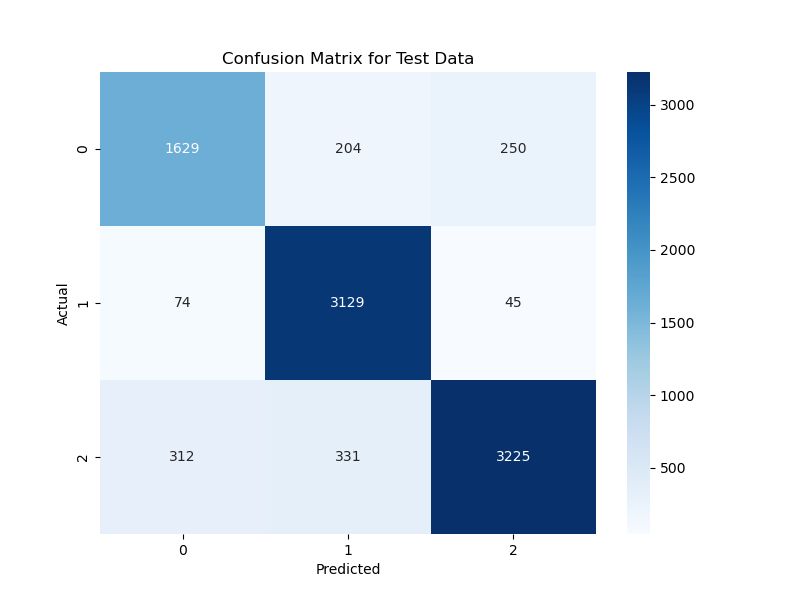
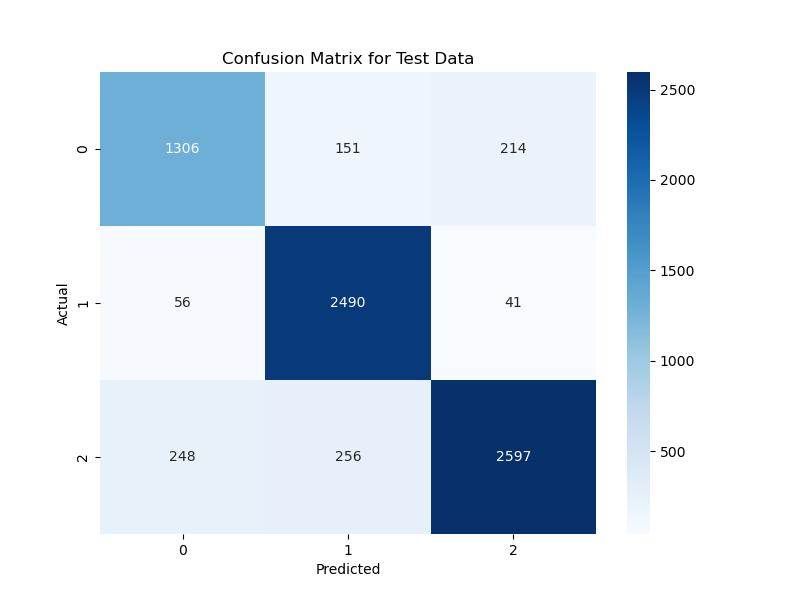
model registry

diff --git a/src/model/model_evaluation.py b/src/model/model_evaluation.py
@@ -3,12 +3,15 @@ import pandas as pd
 import pickle
 import logging
 import yaml
+import mlflow
+import mlflow.sklearn
 from sklearn.metrics import classification_report, confusion_matrix
 from sklearn.feature_extraction.text import TfidfVectorizer
 import os
 import matplotlib.pyplot as plt
 import seaborn as sns
 import json
+from mlflow.models import infer_signature
 
 # logging configuration
 logger = logging.getLogger('model_evaluation')
@@ -100,11 +103,11 @@ def log_confusion_matrix(cm, dataset_name):
     plt.xlabel('Predicted')
     plt.ylabel('Actual')
 
-    # Save confusion matrix plot as a file
+    # Save confusion matrix plot as a file and log it to MLflow
     cm_file_path = f'confusion_matrix_{dataset_name}.png'
     plt.savefig(cm_file_path)
+    mlflow.log_artifact(cm_file_path)
     plt.close()
-
 
 def save_model_info(run_id: str, model_path: str, file_path: str) -> None:
     """Save the model run ID and path to a JSON file."""
@@ -124,36 +127,75 @@ def save_model_info(run_id: str, model_path: str, file_path: str) -> None:
 
 
 def main():
-    try:
-        # Load parameters from YAML file
-        root_dir = os.path.abspath(os.path.join(os.path.dirname(__file__), '../../'))
-        params = load_params(os.path.join(root_dir, 'params.yaml'))
+    mlflow.set_tracking_uri("http://ec2-16-171-155-19.eu-north-1.compute.amazonaws.com:5000/")
 
-        # Load model and vectorizer
-        model = load_model(os.path.join(root_dir, 'lgbm_model.pkl'))
-        vectorizer = load_vectorizer(os.path.join(root_dir, 'tfidf_vectorizer.pkl'))
+    mlflow.set_experiment('dvc-pl')
+    
+    with mlflow.start_run() as run:
+        try:
+            # Load parameters from YAML file
+            root_dir = os.path.abspath(os.path.join(os.path.dirname(__file__), '../../'))
+            params = load_params(os.path.join(root_dir, 'params.yaml'))
 
-        # Load test data
-        test_data = load_data(os.path.join(root_dir, 'data/interim/test_processed.csv'))
+            # Log parameters
+            for key, value in params.items():
+                mlflow.log_param(key, value)
+            
+            # Load model and vectorizer
+            model = load_model(os.path.join(root_dir, 'lgbm_model.pkl'))
+            vectorizer = load_vectorizer(os.path.join(root_dir, 'tfidf_vectorizer.pkl'))
 
-        # Prepare test data
-        X_test_tfidf = vectorizer.transform(test_data['clean_comment'].values)
-        y_test = test_data['category'].values
+            # Load test data for signature inference
+            test_data = load_data(os.path.join(root_dir, 'data/interim/test_processed.csv'))
 
-        # Evaluate model and get metrics
-        report, cm = evaluate_model(model, X_test_tfidf, y_test)
+            # Prepare test data
+            X_test_tfidf = vectorizer.transform(test_data['clean_comment'].values)
+            y_test = test_data['category'].values
 
-        # Log confusion matrix
-        log_confusion_matrix(cm, "Test Data")
+            # Create a DataFrame for signature inference (using first few rows as an example)
+            input_example = pd.DataFrame(X_test_tfidf.toarray()[:5], columns=vectorizer.get_feature_names_out())  # <--- Added for signature
 
-        # Print classification report
-        print("Classification Report:")
-        print(json.dumps(report, indent=4))  # Pretty print the classification report
+            # Infer the signature
+            signature = infer_signature(input_example, model.predict(X_test_tfidf[:5]))  # <--- Added for signature
 
-    except Exception as e:
-        logger.error(f"Failed to complete model evaluation: {e}")
-        print(f"Error: {e}")
+            # Log model with signature
+            mlflow.sklearn.log_model(
+                model,
+                "lgbm_model",
+                signature=signature,  # <--- Added for signature
+                input_example=input_example  # <--- Added input example
+            )
 
+            # Save model info
+            model_path = "lgbm_model"
+            save_model_info(run.info.run_id, model_path, 'experiment_info.json')
+
+            # Log the vectorizer as an artifact
+            mlflow.log_artifact(os.path.join(root_dir, 'tfidf_vectorizer.pkl'))
+
+            # Evaluate model and get metrics
+            report, cm = evaluate_model(model, X_test_tfidf, y_test)
+
+            # Log classification report metrics for the test data
+            for label, metrics in report.items():
+                if isinstance(metrics, dict):
+                    mlflow.log_metrics({
+                        f"test_{label}_precision": metrics['precision'],
+                        f"test_{label}_recall": metrics['recall'],
+                        f"test_{label}_f1-score": metrics['f1-score']
+                    })
+
+            # Log confusion matrix
+            log_confusion_matrix(cm, "Test Data")
+
+            # Add important tags
+            mlflow.set_tag("model_type", "LightGBM")
+            mlflow.set_tag("task", "Sentiment Analysis")
+            mlflow.set_tag("dataset", "YouTube Comments")
+
+        except Exception as e:
+            logger.error(f"Failed to complete model evaluation: {e}")
+            print(f"Error: {e}")
 
 if __name__ == '__main__':
     main()

diff --git a/src/model/register_model.py b/src/model/register_model.py
@@ -1,0 +1,76 @@
+# register model
+
+import json
+import mlflow
+import logging
+import os
+
+# Set up MLflow tracking URI
+mlflow.set_tracking_uri("http://ec2-16-171-155-19.eu-north-1.compute.amazonaws.com:5000/")
+
+
+# logging configuration
+logger = logging.getLogger('model_registration')
+logger.setLevel('DEBUG')
+
+console_handler = logging.StreamHandler()
+console_handler.setLevel('DEBUG')
+
+file_handler = logging.FileHandler('model_registration_errors.log')
+file_handler.setLevel('ERROR')
+
+formatter = logging.Formatter('%(asctime)s - %(name)s - %(levelname)s - %(message)s')
+console_handler.setFormatter(formatter)
+file_handler.setFormatter(formatter)
+
+logger.addHandler(console_handler)
+logger.addHandler(file_handler)
+
+def load_model_info(file_path: str) -> dict:
+    """Load the model info from a JSON file."""
+    try:
+        with open(file_path, 'r') as file:
+            model_info = json.load(file)
+        logger.debug('Model info loaded from %s', file_path)
+        return model_info
+    except FileNotFoundError:
+        logger.error('File not found: %s', file_path)
+        raise
+    except Exception as e:
+        logger.error('Unexpected error occurred while loading the model info: %s', e)
+        raise
+
+def register_model(model_name: str, model_info: dict):
+    """Register the model to the MLflow Model Registry."""
+    try:
+        model_uri = f"runs:/{model_info['run_id']}/{model_info['model_path']}"
+        
+        # Register the model
+        model_version = mlflow.register_model(model_uri, model_name)
+        
+        # Transition the model to "Staging" stage
+        client = mlflow.tracking.MlflowClient()
+        client.transition_model_version_stage(
+            name=model_name,
+            version=model_version.version,
+            stage="Staging"
+        )
+        
+        logger.debug(f'Model {model_name} version {model_version.version} registered and transitioned to Staging.')
+    except Exception as e:
+        logger.error('Error during model registration: %s', e)
+        raise
+
+def main():
+    try:
+        model_info_path = 'experiment_info.json'
+        model_info = load_model_info(model_info_path)
+        
+        model_name = "yt_chrome_plugin_model"
+        register_model(model_name, model_info)
+    except Exception as e:
+        logger.error('Failed to complete the model registration process: %s', e)
+        print(f"Error: {e}")
+
+if __name__ == '__main__':
+    main()

diff --git a/scripts/mlflow_test.py b/scripts/mlflow_test.py
@@ -1,0 +1,17 @@
+import mlflow
+import random
+
+# Set the MLflow tracking URI
+mlflow.set_tracking_uri("http://ec2-54-196-109-131.compute-1.amazonaws.com:5000/")
+
+# Start an MLflow run
+with mlflow.start_run():
+    # Log some random parameters
+    mlflow.log_param("param1", random.randint(1, 100))
+    mlflow.log_param("param2", random.random())
+
+    # Log some random metrics
+    mlflow.log_metric("metric1", random.random())
+    mlflow.log_metric("metric2", random.uniform(0.5, 1.5))
+
+    print("Logged random parameters and metrics.")
